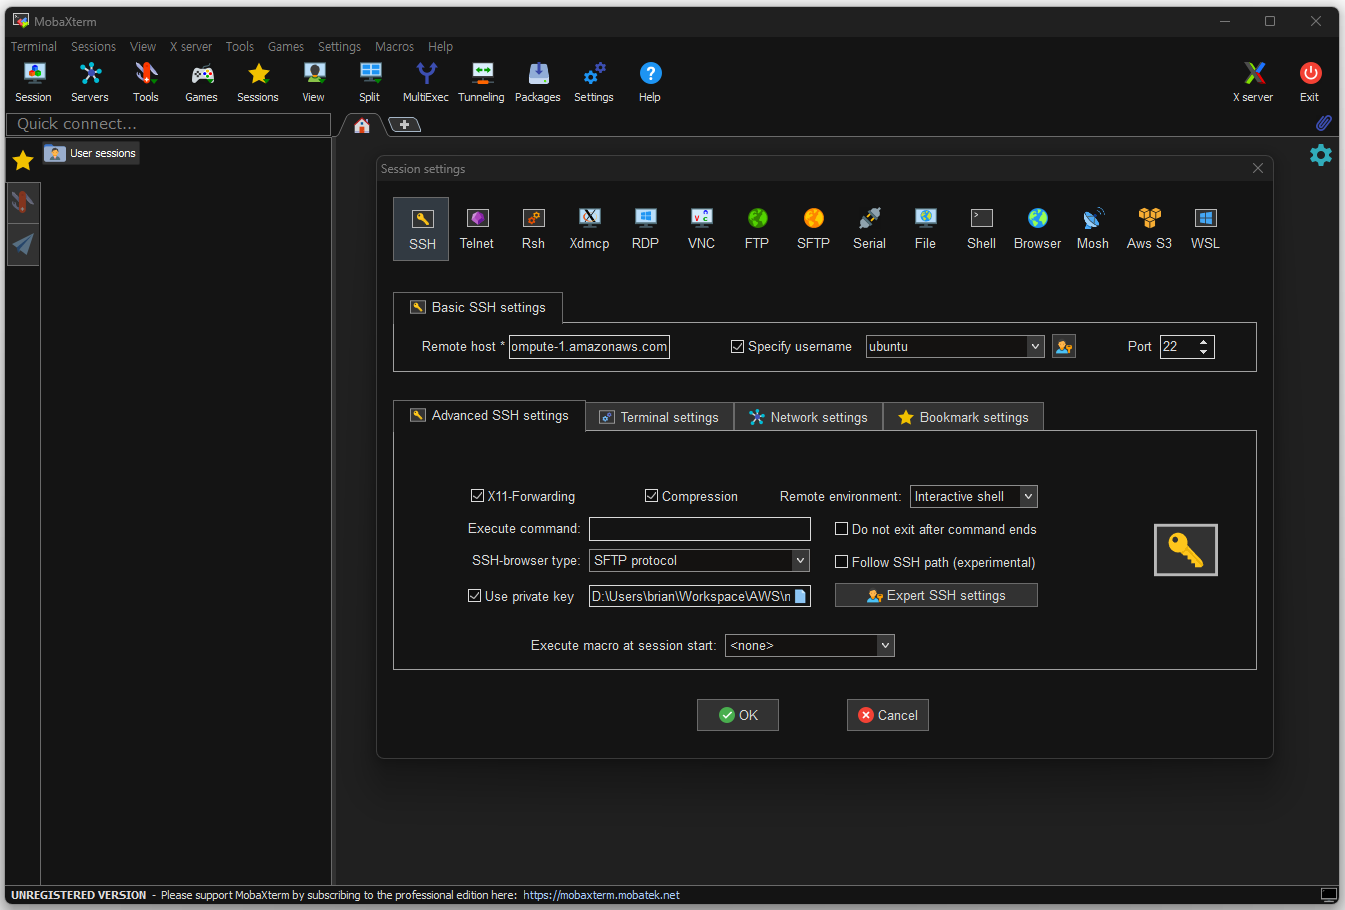
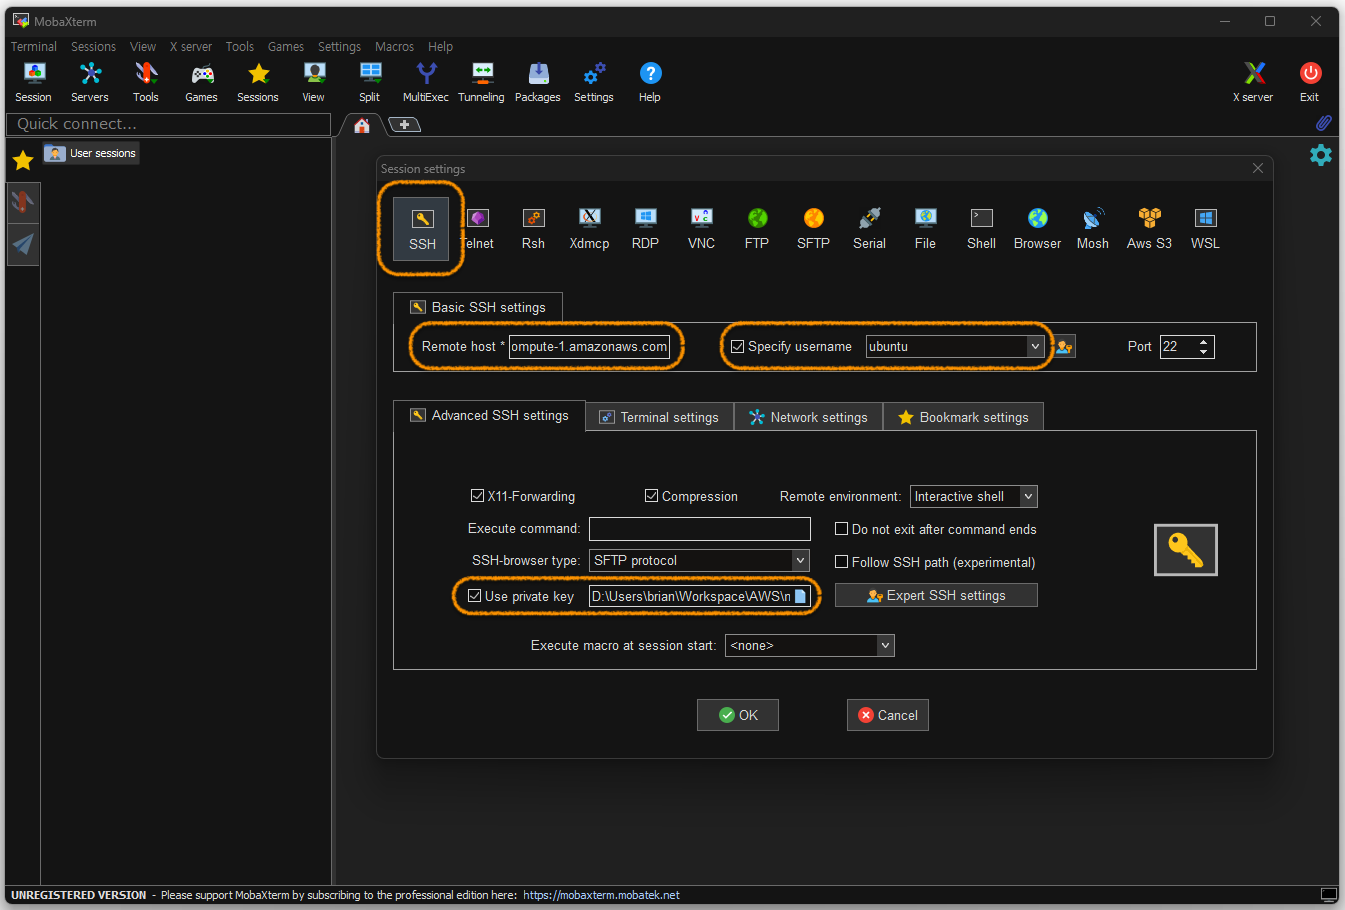
.

diff --git a/doc/[Hands-on] 01_Environment_Setup.md b/doc/[Hands-on] 01_Environment_Setup.md
@@ -18,6 +18,7 @@ footer: Samsung SDS
 
 - **VPC 만들기**
 - **VM Instance 만들기**
+- **VM Instance 접속하기**
 - **Docker 설치하기**
 
 ---
@@ -158,26 +159,54 @@ Number of instances를 1로 하고 `Launch instance`버튼을 클릭합니다.
 
 ![h:400](img/aws_ec2_12.png)
 정상적으로 EC2 Instance가 생성되면 화면과 같이 표시됩니다.
+> SSH 접속을 위해 필요한 **Public IPv4 address** 또는 **Public IPv4 DNS** 정보를 기록해둡니다.
 
 ---
 
+## VM Instance 접속하기
 생성된 VM Instance의 접속은 다음의 방법 중 하나를 사용하면 됩니다.
-- Terminal 프로그램 (e.g. PowerShell, cmder, iTerm, etc.)
-- MobaXterm
-- Putty
+- **[접속방법1]** Terminal 프로그램 (e.g. PowerShell, cmder, iTerm, etc.)
+- **[접속방법2]** MobaXterm
 
-(접속방법1) Terminal 프로그램
+위의 두 가지 방법 모두 다음을 먼저 준비해야 합니다.
+- VM Instance의 **Public IPv4 address** 또는 **Public IPv4 DNS**
+- Key pair (**mspt3.pem** 파일)
+
+**[접속방법1]** Terminal 프로그램
+기본적인 터미널 프로그램을 사용한 접속방법 입니다.
+
+![h:200](img/terminal1.png)
+접속하려는 EC2 Instance를 선택하고, `Connect`버튼을 클릭합니다.
 
 ---
 
-(접속방법2) MobaXterm
-![h:400](img/mobaxterm1.png)
+![h:350](img/terminal2.png)
+위 그림과 같이 **Connect to instance** 화면에서 **SSH client** 탭을 클릭하고, 아래 표시되는 절차에 따라 접속을 진행합니다.
+
+---
+
+![h:450](img/terminal4.png)
+정상적으로 접속되면 위와같은 화면이 표시됩니다.
+
+---
+
+**[접속방법2]**  MobaXterm
+![h:450](img/mobaxterm1.png)
 MobaXterm을 실행하고 `Session` 버튼을 클릭합니다.
 
+---
+
+![h:450](img/mobaxterm2.png)
+접속방식은 `SSH`를 선택하고 다음 정보를 입력한 다음 `OK`버튼을 클릭하여 접속합니다.
+- **Remote host** : EC2 Instance의 **Public IPv4 address** 또는 **Public IPv4 DNS**
+- **Specify username** : ubuntu
+- **Use private key** : mspt3.pem
 
 ---
 
-(접속방법3) Putty
+![h:500](img/mobaxterm3.png)
+접속되면 위와같은 화면이 표시됩니다.
+다음 번 접속부터는 **Quick connect**의 **User session**을 이용할 수 있습니다.
 
 ---
 
